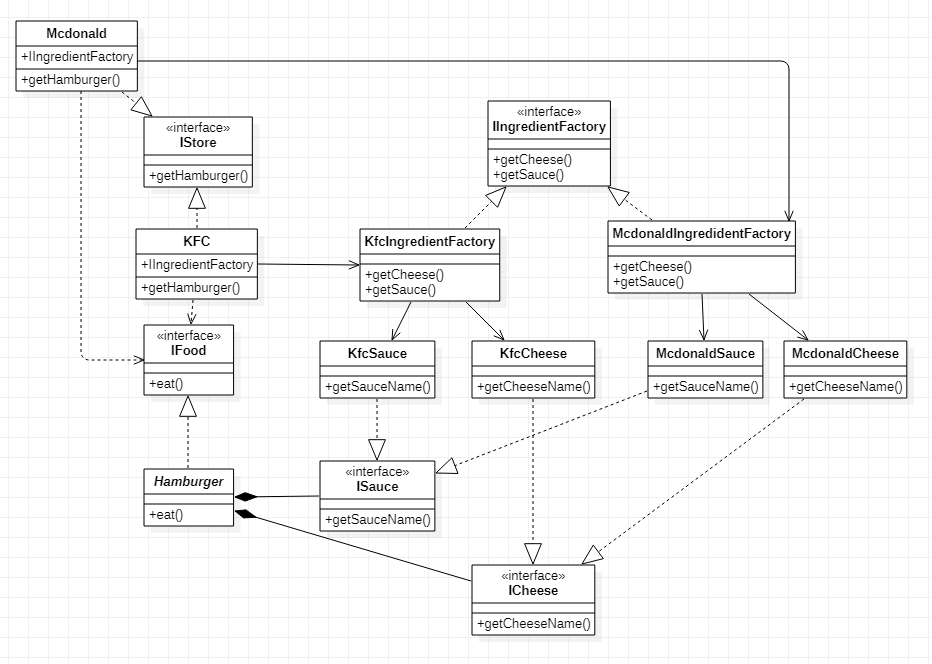
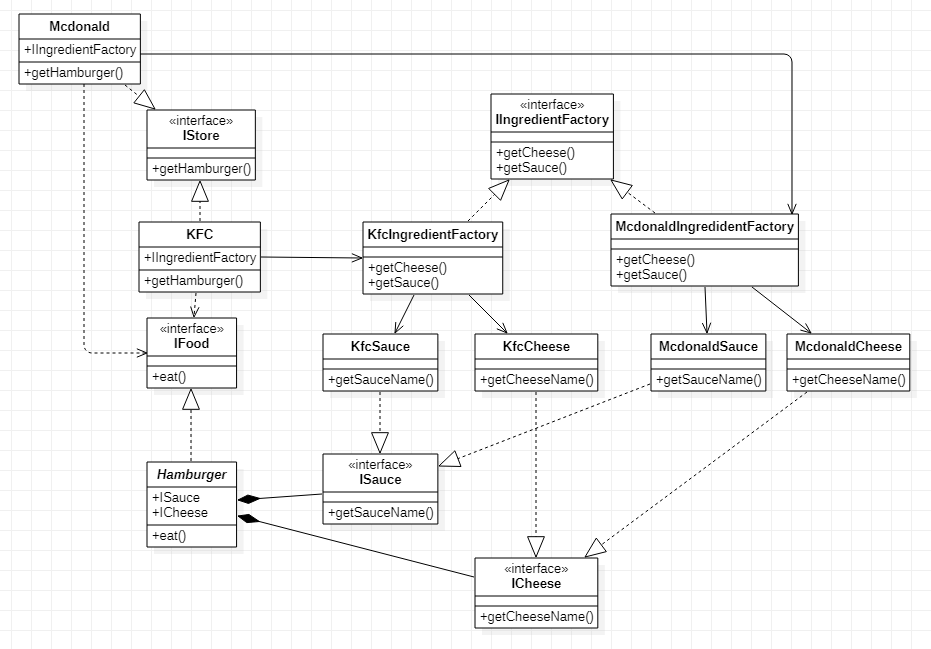
Update Abstract Factory UML and comment

diff --git a/designpattern/src/main/java/tw/com/voodoo0406/practice/designpattern/abstractfactory/Hamburger.java b/designpattern/src/main/java/tw/com/voodoo0406/practice/designpattern/abstractfactory/Hamburger.java
@@ -2,8 +2,8 @@ package tw.com.voodoo0406.practice.designpattern.abstractfactory;
 
 public class Hamburger implements IFood {
 
-  protected ICheese cheese;
-  protected ISauce sauce;
+  private ICheese cheese;
+  private ISauce sauce;
 
   public Hamburger(ICheese cheese, ISauce sauce) {
     this.cheese = cheese;
